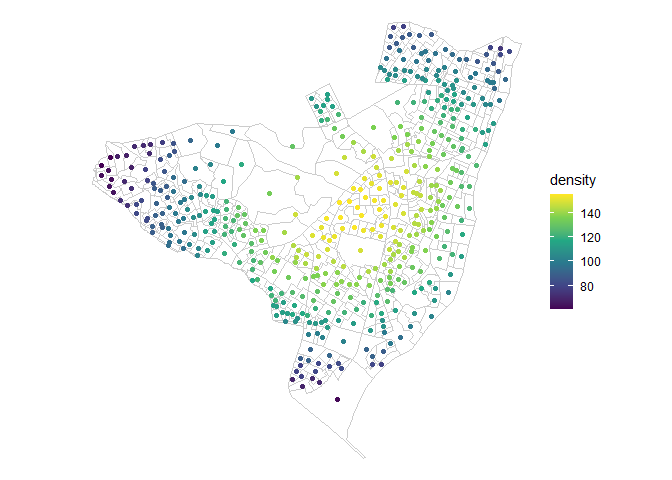
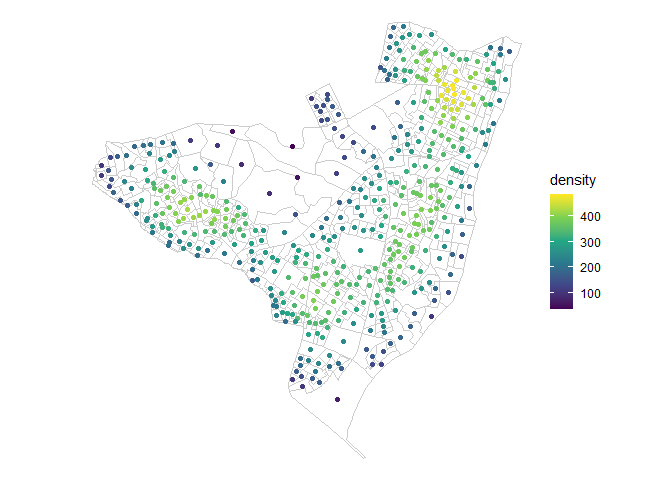
Re-run  maps with correct method

diff --git a/README.md b/README.md
@@ -15,6 +15,7 @@ for detailed examples.
 
 ``` r
 library(sf)
+## Linking to GEOS 3.6.1, GDAL 2.2.3, PROJ 4.9.3
 library(sfx)
 library(ggplot2)
 
@@ -22,16 +23,12 @@ olinda1 <- sf::read_sf(system.file("shape/olinda1.shp", package = "sf"))
 
 olinda1_centroids <- olinda1  %>%
     sf::st_centroid()
-```
+## Warning in st_centroid.sf(.): st_centroid assumes attributes are constant over
+## geometries of x
+## Warning in st_centroid.sfc(st_geometry(x), of_largest_polygon =
+## of_largest_polygon): st_centroid does not give correct centroids for longitude/
+## latitude data
 
-    ## Warning in st_centroid.sf(.): st_centroid assumes attributes are constant over
-    ## geometries of x
-
-    ## Warning in st_centroid.sfc(st_geometry(x), of_largest_polygon =
-    ## of_largest_polygon): st_centroid does not give correct centroids for longitude/
-    ## latitude data
-
-``` r
 olinda1_centroids %>%
     st_density() %>%
     ggplot() +
@@ -39,13 +36,13 @@ olinda1_centroids %>%
     geom_sf(aes(color = density)) +
     scale_color_viridis_c() +
     theme_void()
+## No bandwidth provided, using estimate: 0.0266888485440378No bandwidth provided, using estimate: 0.0218299889056418
 ```
-
-    ## No bandwidth provided, using estimate: 0.0266888485440378No bandwidth provided, using estimate: 0.0218299889056418
 
 ![](README_files/figure-gfm/unnamed-chunk-1-1.png)<!-- -->
 
 ``` r
+
 olinda1_centroids %>%
     st_density(method = "bkde2D") %>%
     ggplot() +
@@ -53,9 +50,8 @@ olinda1_centroids %>%
     geom_sf(aes(color = density)) +
     scale_color_viridis_c() +
     theme_void()
+## No bandwidth provided, using estimate: 0.00440286118167917No bandwidth provided, using estimate: 0.00457288709889236
 ```
-
-    ## No bandwidth provided, using estimate: 0.0266888485440378No bandwidth provided, using estimate: 0.0218299889056418
 
 ![](README_files/figure-gfm/unnamed-chunk-1-2.png)<!-- -->
 
